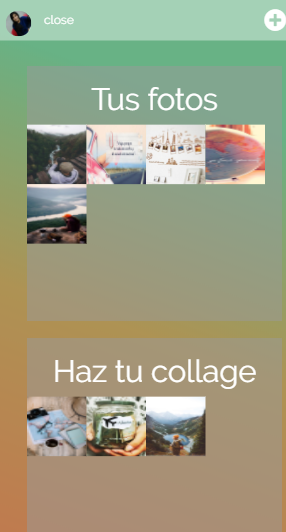
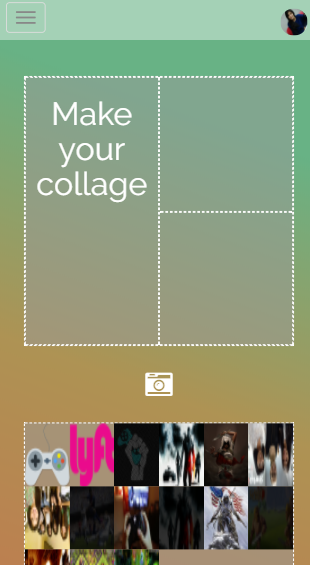
añadiendo funcion remove

diff --git a/js/function-collage.js b/js/function-collage.js
@@ -3,9 +3,9 @@ window.addEventListener('load', function(event) {
   let draggable = document.querySelectorAll('[draggable]');
   let containers = document.querySelectorAll('[data-container]');
   let title = document.getElementById('title');
-  let containerTitle = document.getElementById('container-title');
+  let containerImg1 = document.getElementById('container-img-1');
 
-  /* ejecutando los eventos*/
+  /* Ejecutando los eventos*/
   draggable.forEach(function(value, i) {
     draggable[i].addEventListener('dragstart', dragstart);
   });
@@ -21,19 +21,35 @@ window.addEventListener('load', function(event) {
   function selection(event) {
     event.preventDefault();
     if (event.type !== 'drop') {
-      /* console.log(event);*/
       return;
     }
     let elementId = event.dataTransfer.getData('text');
 
-    var div = document.createElement('div');
-    var img = document.createElement('img');
-    
-    img.classList.add('container-collage-img');
-    img.setAttribute('src', elementId);
+    let icon = document.createElement('i');
+    let img = document.createElement('img');
+    let div = document.createElement('div');
 
-    event.target.appendChild(img);
-    containerTitle.removeChild(title);
+    icon.classList.add('times-circle');
+    img.classList.add('imagen');
+    div.classList.add('container-collage-img');
+    img.setAttribute('src', elementId);
+    icon.setAttribute('data-img', elementId);
+
+    div.appendChild(icon);
+    div.appendChild(img);
+    event.target.appendChild(div);
+
+    icon.addEventListener('click', remove);
+    function remove(event) {
+      if (icon.dataset.img === img.getAttribute('src')) {
+        let elementFather = this.parentNode;
+        let elementContainerFather = elementFather.parentNode;
+
+        elementContainerFather.removeChild(elementFather);
+      }
+    }
+
+    containerImg1.removeChild(title);
   }
 });
 

diff --git a/views/collage.html b/views/collage.html
@@ -51,7 +51,7 @@
         <!--seccion para colocar el collage-->
         <div class="col-xs-12 col-md-12">
           <div data-container="true" class="data-container col-xs-12 col-md-12 flex border container-padding">
-            <div id="container-title" class="col-xs-6 col-md-6 container-collage-img border container-padding">
+            <div id="container-img-1" class="col-xs-6 col-md-6 container-collage-img border container-padding">
               <h1 id="title">Make your collage</h1>
             </div>
             <div class="col-xs-6 col-md-6 container-collage-img border container-padding">
@@ -72,7 +72,7 @@
         </div>
         <!-- section de imagenes -->
         <div class="col-xs-12 col-md-12">
-          <div id="container-img-collage" class="data-container container-img border container-close">
+          <div id="container-img-collage" class="data-container border container-close">
             <div class="col-xs-12 col-md-12">
               <h1>Choose your photos</h1>
             </div>

diff --git a/css/collage.css b/css/collage.css
@@ -59,6 +59,18 @@ body {
 .imagen {
   width: 100%;
   height: 100%;
+  position:absolute;
+  display:block;
+}
+
+.times-circle::before {
+  content: '\f057';
+  float: left;
+  position: relative;
+  font-family: FontAwesome;
+  color: #fff;
+  z-index: 1000;
+  cursor: pointer;
 }
 
 /* Style for contenedores*/

diff --git a/README.md b/README.md
@@ -2,13 +2,14 @@
 
 ## Objetivo
 
-- El objetivo de esta pagina es, que el usuario pueda tener una cuenta, para hacer collages personalizados.
+- Nuestro objetivo es, darle a usted como usuario la mejor experiencia creando collages personalizados. Para esto hemos creado Insta Collage, la cual le permite subir las fotos que usted deseé, así como también tomar una foto y subirla desde su celular. Cabe recalcar que la pagina es responsiva, así que puede hacer uso de ella en cualquier dispositivo.
+- Esperamos sea de su agrado y la disfruté al máximo, gracias por preferirnos. 
 
 ## Planificación, Organización y Ejecución
 
 - Miercoles: 07/02/2018
    - Primero nos organizamos y dividimos el trabajo por tareas.
-   - Luego cada una subio sus avances a github, previo a esto nos comunicamos por slack para no entrar en conflictos.
+   - Luego cada una subió sus avances a github, previo a esto nos comunicamos por slack para no entrar en conflictos.
    - Para finalizar nos dimos feedback, verificamos el producto final y lo aceptamos. 
 
 ## Herramientas Utilizadas
@@ -16,14 +17,15 @@
 - Html5, para la estructura del contenido.
 - API Drag and Drop.
 - Css3, para darle estilo al contenido.
-- JS6, para la logica de la página.
+- JS6, para la lógica de la página.
 - Jquery, para acceder al DOM.
 - Bootstrap4
 - Media queries.
 
 ## Fuente consultada
 
-[Laboratoria LMS](https://lms.laboratoria.la/cohorts/lim-2018-01-bc-js-front-end-developer/courses/spa/01-html-5/08-geolocation-challenges)
+[Laboratoria LMS](https://lms.laboratoria.la/cohorts/lim-2018-01-bc-js-front-end-developer/courses/spa/01-html-5/08-geolocation-challenges) /
+[Firebase](https://firebase.google.com/docs/storage/web/upload-files?authuser=0)
 
 ## Imagen
 
